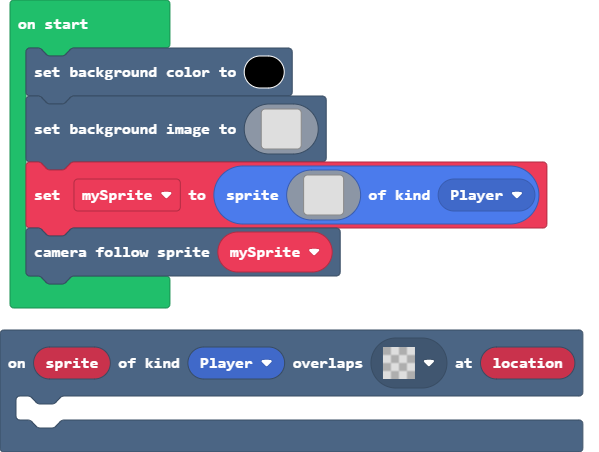
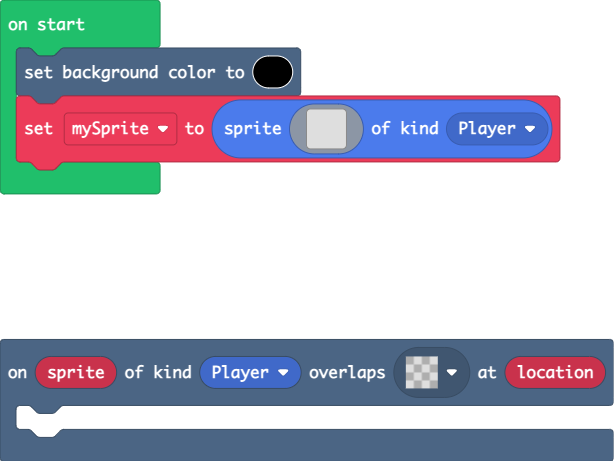
Update pxt.json, main.blocks, main.ts

diff --git a/main.ts b/main.ts
@@ -2,128 +2,6 @@ scene.onOverlapTile(SpriteKind.Player, assets.tile`transparency16`, function (sp
 	
 })
 scene.setBackgroundColor(15)
-scene.setBackgroundImage(img`
-    ................................................................................................................................................................
-    ................................................................................................................................................................
-    ................................................................................................................................................................
-    ................................................................................................................................................................
-    ................................................................................................................................................................
-    ................................................................................................................................................................
-    ................................................................................................................................................................
-    ................................................................................................................................................................
-    ................................................................................................................................................................
-    ................................................................................................................................................................
-    ................................................................................................................................................................
-    ................................................................................................................................................................
-    ................................................................................................................................................................
-    ................................................................................................................................................................
-    ................................................................................................................................................................
-    ................................................................................................................................................................
-    ................................................................................................................................................................
-    ................................................................................................................................................................
-    ................................................................................................................................................................
-    ................................................................................................................................................................
-    ................................................................................................................................................................
-    ................................................................................................................................................................
-    ................................................................................................................................................................
-    ................................................................................................................................................................
-    ................................................................................................................................................................
-    ................................................................................................................................................................
-    ................................................................................................................................................................
-    ................................................................................................................................................................
-    ................................................................................................................................................................
-    ................................................................................................................................................................
-    ................................................................................................................................................................
-    ................................................................................................................................................................
-    ................................................................................................................................................................
-    ................................................................................................................................................................
-    ................................................................................................................................................................
-    ................................................................................................................................................................
-    ................................................................................................................................................................
-    ................................................................................................................................................................
-    ................................................................................................................................................................
-    ................................................................................................................................................................
-    ................................................................................................................................................................
-    ................................................................................................................................................................
-    ................................................................................................................................................................
-    ................................................................................................................................................................
-    ................................................................................................................................................................
-    ................................................................................................................................................................
-    ................................................................................................................................................................
-    ................................................................................................................................................................
-    ................................................................................................................................................................
-    ................................................................................................................................................................
-    ................................................................................................................................................................
-    ................................................................................................................................................................
-    ................................................................................................................................................................
-    ................................................................................................................................................................
-    ................................................................................................................................................................
-    ................................................................................................................................................................
-    ................................................................................................................................................................
-    ................................................................................................................................................................
-    ................................................................................................................................................................
-    ................................................................................................................................................................
-    ................................................................................................................................................................
-    ................................................................................................................................................................
-    ................................................................................................................................................................
-    ................................................................................................................................................................
-    ................................................................................................................................................................
-    ................................................................................................................................................................
-    ................................................................................................................................................................
-    ................................................................................................................................................................
-    ................................................................................................................................................................
-    ................................................................................................................................................................
-    ................................................................................................................................................................
-    ................................................................................................................................................................
-    ................................................................................................................................................................
-    ................................................................................................................................................................
-    ................................................................................................................................................................
-    ................................................................................................................................................................
-    ................................................................................................................................................................
-    ................................................................................................................................................................
-    ................................................................................................................................................................
-    ................................................................................................................................................................
-    ................................................................................................................................................................
-    ................................................................................................................................................................
-    ................................................................................................................................................................
-    ................................................................................................................................................................
-    ................................................................................................................................................................
-    ................................................................................................................................................................
-    ................................................................................................................................................................
-    ................................................................................................................................................................
-    ................................................................................................................................................................
-    ................................................................................................................................................................
-    ................................................................................................................................................................
-    ................................................................................................................................................................
-    ................................................................................................................................................................
-    ................................................................................................................................................................
-    ................................................................................................................................................................
-    ................................................................................................................................................................
-    ................................................................................................................................................................
-    ................................................................................................................................................................
-    ................................................................................................................................................................
-    ................................................................................................................................................................
-    ................................................................................................................................................................
-    ................................................................................................................................................................
-    ................................................................................................................................................................
-    ................................................................................................................................................................
-    ................................................................................................................................................................
-    ................................................................................................................................................................
-    ................................................................................................................................................................
-    ................................................................................................................................................................
-    ................................................................................................................................................................
-    ................................................................................................................................................................
-    ................................................................................................................................................................
-    ................................................................................................................................................................
-    ................................................................................................................................................................
-    ................................................................................................................................................................
-    ................................................................................................................................................................
-    ................................................................................................................................................................
-    ................................................................................................................................................................
-    ................................................................................................................................................................
-    ................................................................................................................................................................
-    ................................................................................................................................................................
-    `)
 let mySprite = sprites.create(img`
     . . . . . . . . . . . . . . . . 
     . . . . . . . . . . . . . . . . 
@@ -142,4 +20,3 @@ let mySprite = sprites.create(img`
     . . . . . . . . . . . . . . . . 
     . . . . . . . . . . . . . . . . 
     `, SpriteKind.Player)
-scene.cameraFollowSprite(mySprite)
